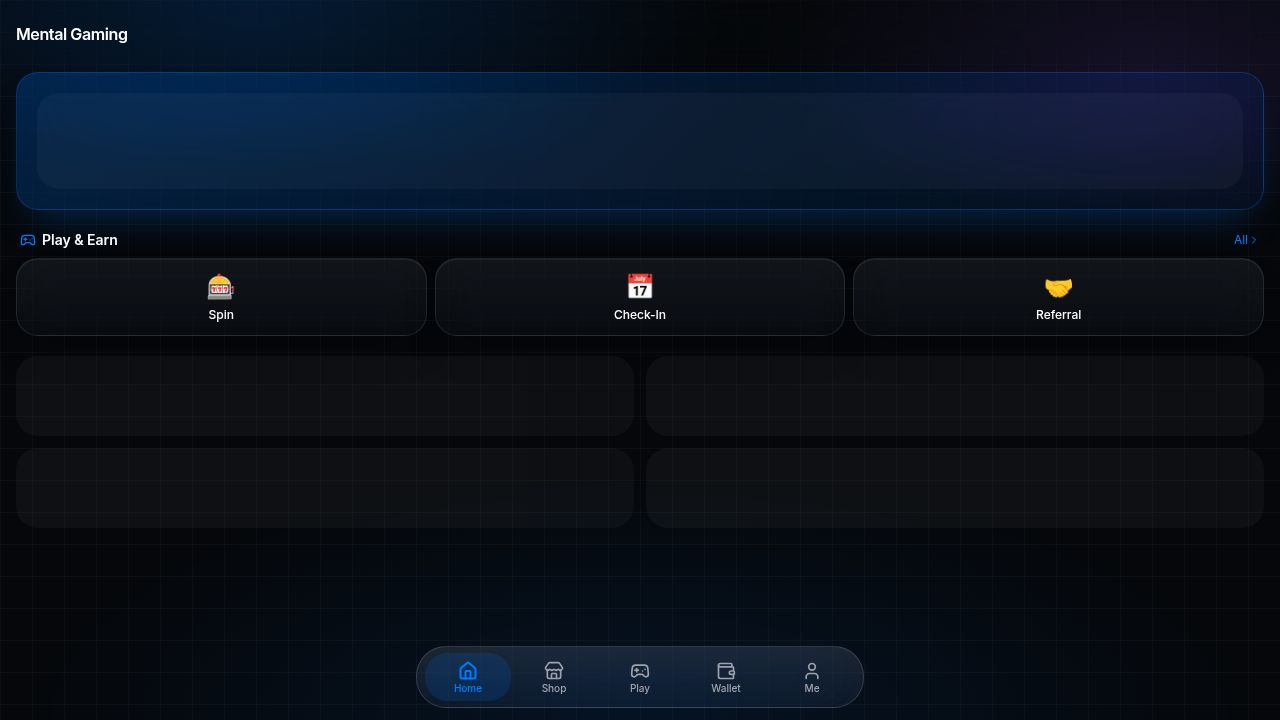
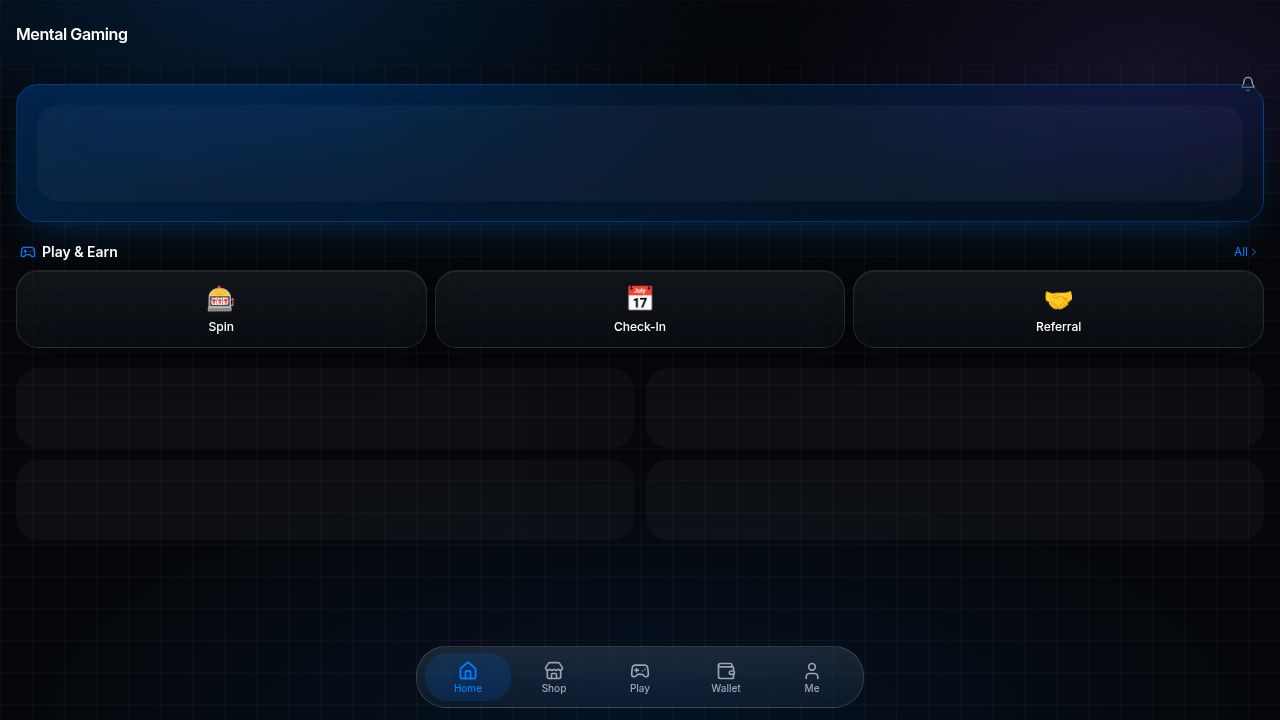
Add admin command to configure mental coin exchange and rewards
Implement `/mcconfig` command and related logic to manage Mental Coin exchange rates, redemption limits, discount percentages, and review rewards within the bot.

Replit-Commit-Author: Agent
Replit-Commit-Session-Id: 858a81e6-2e26-4d1b-8298-dc2e934a03b2
Replit-Commit-Checkpoint-Type: full_checkpoint
Replit-Commit-Event-Id: 6d10e689-0e99-47ee-bfa8-dbe62c02f780
Replit-Commit-Screenshot-Url: https://storage.googleapis.com/screenshot-production-us-central1/cdfa8b84-9cc1-47e8-8e6c-878f6d06df82/858a81e6-2e26-4d1b-8298-dc2e934a03b2/En8fFU8
Replit-Helium-Checkpoint-Created: true

diff --git a/artifacts/bot/src/commands/mcConfig.js b/artifacts/bot/src/commands/mcConfig.js
@@ -1,0 +1,199 @@
+/**
+ * MC Config Admin — Manage Mental Coin Exchange & Review Reward settings.
+ *
+ * Commands (Owner only):
+ *   /mcconfig                  — show dashboard with current settings
+ *   /setmcrate <n>             — 1 MC = N KS (exchange rate)
+ *   /setmcmin <n>              — minimum MC needed to redeem
+ *   /setmcmaxpct <n>           — max order discount % from MC (1–100)
+ *   /setreviewreward <n>       — MC coins awarded per qualifying review
+ *
+ * Callback actions (Owner):
+ *   mc_toggle_redeem           — toggle mcRedeemEnabled on/off
+ *   mc_toggle_review           — toggle reviewRewardEnabled on/off
+ *   mc_refresh                 — refresh dashboard
+ */
+
+const { Markup } = require('telegraf');
+const { adminOnly } = require('../middlewares/adminCheck');
+const SystemStatus = require('../models/SystemStatus');
+
+// ── Dashboard helpers ─────────────────────────────────────────────────────────
+
+async function getConfig() {
+  const s = await SystemStatus.getStatus();
+  return {
+    mcRedeemEnabled:    s.mcRedeemEnabled    ?? false,
+    mcExchangeRate:     s.mcExchangeRate     ?? 1,
+    mcMinRedeem:        s.mcMinRedeem        ?? 500,
+    mcMaxDiscountPct:   s.mcMaxDiscountPct   ?? 20,
+    reviewRewardEnabled: s.reviewRewardEnabled ?? false,
+    reviewRewardAmount:  s.reviewRewardAmount  ?? 50,
+  };
+}
+
+function dashboardText(cfg) {
+  const redeemIcon = cfg.mcRedeemEnabled    ? '🟢 ON' : '🔴 OFF';
+  const reviewIcon = cfg.reviewRewardEnabled ? '🟢 ON' : '🔴 OFF';
+
+  return (
+    `💱 *Mental Coin Config*\n` +
+    `━━━━━━━━━━━━━━━━━━━━━━\n\n` +
+    `*MC Exchange (Checkout Discount)*\n` +
+    `  Status  : ${redeemIcon}\n` +
+    `  Rate    : 1 MC = *${cfg.mcExchangeRate} KS* discount\n` +
+    `  Min MC  : *${cfg.mcMinRedeem.toLocaleString()} MC* minimum to redeem\n` +
+    `  Max Off : up to *${cfg.mcMaxDiscountPct}%* of order total\n\n` +
+    `*Review Reward*\n` +
+    `  Status  : ${reviewIcon}\n` +
+    `  Reward  : *${cfg.reviewRewardAmount} MC* per qualifying review\n` +
+    `  _(4★+ review with comment)_\n\n` +
+    `━━━━━━━━━━━━━━━━━━━━━━\n` +
+    `Commands:\n` +
+    `• \`/setmcrate <n>\` — exchange rate (1 MC = N KS)\n` +
+    `• \`/setmcmin <n>\` — min MC to redeem\n` +
+    `• \`/setmcmaxpct <n>\` — max discount % (1–100)\n` +
+    `• \`/setreviewreward <n>\` — review reward amount`
+  );
+}
+
+function dashboardKeyboard(cfg) {
+  return Markup.inlineKeyboard([
+    [
+      Markup.button.callback(
+        cfg.mcRedeemEnabled ? '🔴 Disable MC Exchange' : '🟢 Enable MC Exchange',
+        'mc_toggle_redeem'
+      ),
+    ],
+    [
+      Markup.button.callback(
+        cfg.reviewRewardEnabled ? '🔴 Disable Review Reward' : '🟢 Enable Review Reward',
+        'mc_toggle_review'
+      ),
+    ],
+    [Markup.button.callback('🔄 Refresh', 'mc_refresh')],
+  ]);
+}
+
+// ── Module ────────────────────────────────────────────────────────────────────
+
+module.exports = function registerMcConfig(bot) {
+
+  // ── /mcconfig ─────────────────────────────────────────────────────────────
+
+  bot.command('mcconfig', adminOnly(), async (ctx) => {
+    const cfg = await getConfig();
+    await ctx.reply(dashboardText(cfg), {
+      parse_mode: 'Markdown',
+      ...dashboardKeyboard(cfg),
+    });
+  });
+
+  // ── /setmcrate <n> ────────────────────────────────────────────────────────
+
+  bot.command('setmcrate', adminOnly(), async (ctx) => {
+    const arg = ctx.message.text.split(/\s+/)[1];
+    const n = parseFloat(arg);
+    if (!arg || isNaN(n) || n <= 0) {
+      return ctx.reply(
+        '❌ Usage: `/setmcrate <number>`\nExample: `/setmcrate 1` (1 MC = 1 KS)\nExample: `/setmcrate 0.5` (1 MC = 0.5 KS)',
+        { parse_mode: 'Markdown' }
+      );
+    }
+    await SystemStatus.findOneAndUpdate({}, { $set: { mcExchangeRate: n } }, { upsert: true });
+    await ctx.reply(`✅ Exchange rate set: *1 MC = ${n} KS* discount.`, { parse_mode: 'Markdown' });
+  });
+
+  // ── /setmcmin <n> ─────────────────────────────────────────────────────────
+
+  bot.command('setmcmin', adminOnly(), async (ctx) => {
+    const arg = ctx.message.text.split(/\s+/)[1];
+    const n = parseInt(arg, 10);
+    if (!arg || isNaN(n) || n < 1) {
+      return ctx.reply(
+        '❌ Usage: `/setmcmin <amount>`\nExample: `/setmcmin 500` (need 500 MC minimum)',
+        { parse_mode: 'Markdown' }
+      );
+    }
+    await SystemStatus.findOneAndUpdate({}, { $set: { mcMinRedeem: n } }, { upsert: true });
+    await ctx.reply(
+      `✅ Minimum redeem set to *${n.toLocaleString()} MC*.`,
+      { parse_mode: 'Markdown' }
+    );
+  });
+
+  // ── /setmcmaxpct <n> ──────────────────────────────────────────────────────
+
+  bot.command('setmcmaxpct', adminOnly(), async (ctx) => {
+    const arg = ctx.message.text.split(/\s+/)[1];
+    const n = parseInt(arg, 10);
+    if (!arg || isNaN(n) || n < 1 || n > 100) {
+      return ctx.reply(
+        '❌ Usage: `/setmcmaxpct <1–100>`\nExample: `/setmcmaxpct 20` (max 20% of order can be discounted)',
+        { parse_mode: 'Markdown' }
+      );
+    }
+    await SystemStatus.findOneAndUpdate({}, { $set: { mcMaxDiscountPct: n } }, { upsert: true });
+    await ctx.reply(
+      `✅ Max MC discount per order set to *${n}%*.`,
+      { parse_mode: 'Markdown' }
+    );
+  });
+
+  // ── /setreviewreward <n> ──────────────────────────────────────────────────
+
+  bot.command('setreviewreward', adminOnly(), async (ctx) => {
+    const arg = ctx.message.text.split(/\s+/)[1];
+    const n = parseInt(arg, 10);
+    if (!arg || isNaN(n) || n < 0) {
+      return ctx.reply(
+        '❌ Usage: `/setreviewreward <amount>`\nExample: `/setreviewreward 50` (award 50 MC per review)',
+        { parse_mode: 'Markdown' }
+      );
+    }
+    await SystemStatus.findOneAndUpdate({}, { $set: { reviewRewardAmount: n } }, { upsert: true });
+    await ctx.reply(
+      `✅ Review reward set to *${n} MC* per qualifying review.`,
+      { parse_mode: 'Markdown' }
+    );
+  });
+
+  // ── Callback: mc_toggle_redeem ────────────────────────────────────────────
+
+  bot.action('mc_toggle_redeem', adminOnly(), async (ctx) => {
+    await ctx.answerCbQuery();
+    const s = await SystemStatus.getStatus();
+    const newVal = !(s.mcRedeemEnabled ?? false);
+    await SystemStatus.findOneAndUpdate({}, { $set: { mcRedeemEnabled: newVal } }, { upsert: true });
+    const cfg = await getConfig();
+    await ctx.editMessageText(dashboardText(cfg), {
+      parse_mode: 'Markdown',
+      ...dashboardKeyboard(cfg),
+    });
+  });
+
+  // ── Callback: mc_toggle_review ────────────────────────────────────────────
+
+  bot.action('mc_toggle_review', adminOnly(), async (ctx) => {
+    await ctx.answerCbQuery();
+    const s = await SystemStatus.getStatus();
+    const newVal = !(s.reviewRewardEnabled ?? false);
+    await SystemStatus.findOneAndUpdate({}, { $set: { reviewRewardEnabled: newVal } }, { upsert: true });
+    const cfg = await getConfig();
+    await ctx.editMessageText(dashboardText(cfg), {
+      parse_mode: 'Markdown',
+      ...dashboardKeyboard(cfg),
+    });
+  });
+
+  // ── Callback: mc_refresh ──────────────────────────────────────────────────
+
+  bot.action('mc_refresh', adminOnly(), async (ctx) => {
+    await ctx.answerCbQuery('Refreshed');
+    const cfg = await getConfig();
+    await ctx.editMessageText(dashboardText(cfg), {
+      parse_mode: 'Markdown',
+      ...dashboardKeyboard(cfg),
+    });
+  });
+};

diff --git a/artifacts/bot/src/index.js b/artifacts/bot/src/index.js
@@ -86,6 +86,7 @@ function loadCommands(bot) {
     'catalogAdmin.js',      // ← Catalog system + bulk product import
     'bannerAdmin.js',       // ← Promotion banner management (MANAGER+)
     'featureGate.js',       // ← Feature gate control panel (Owner/Manager)
+    'mcConfig.js',          // ← Mental Coin exchange & review reward config (Owner)
     'admin.js',
     'help.js',
     'ambient.js',           // ← LAST: catch-all ambient AI text handler